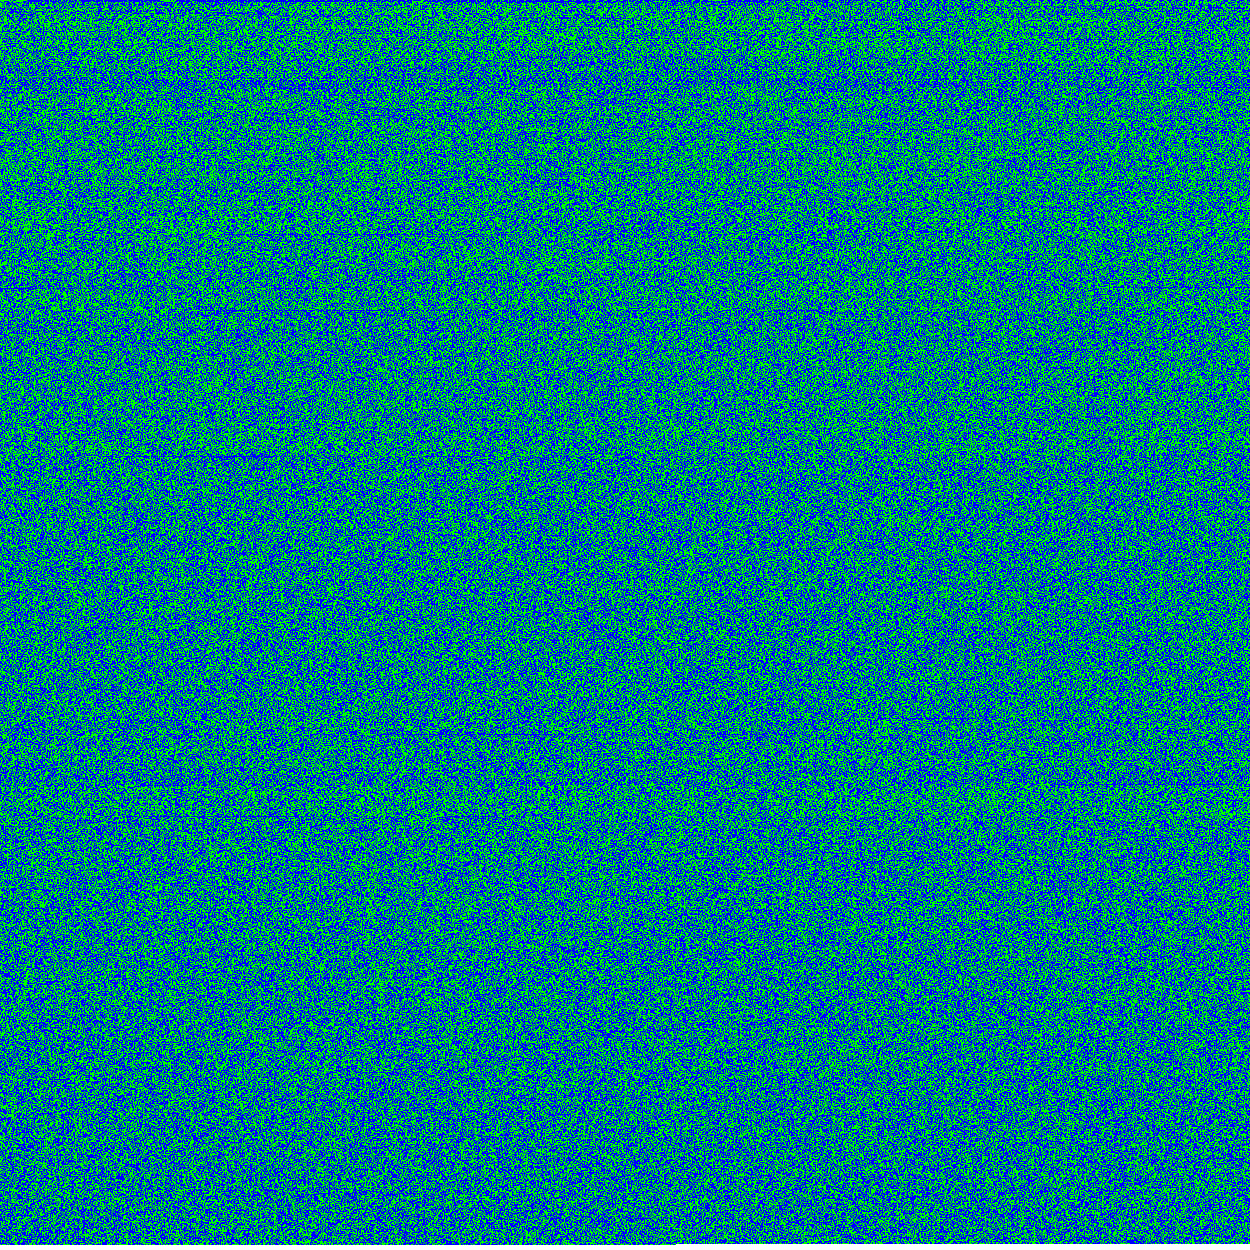
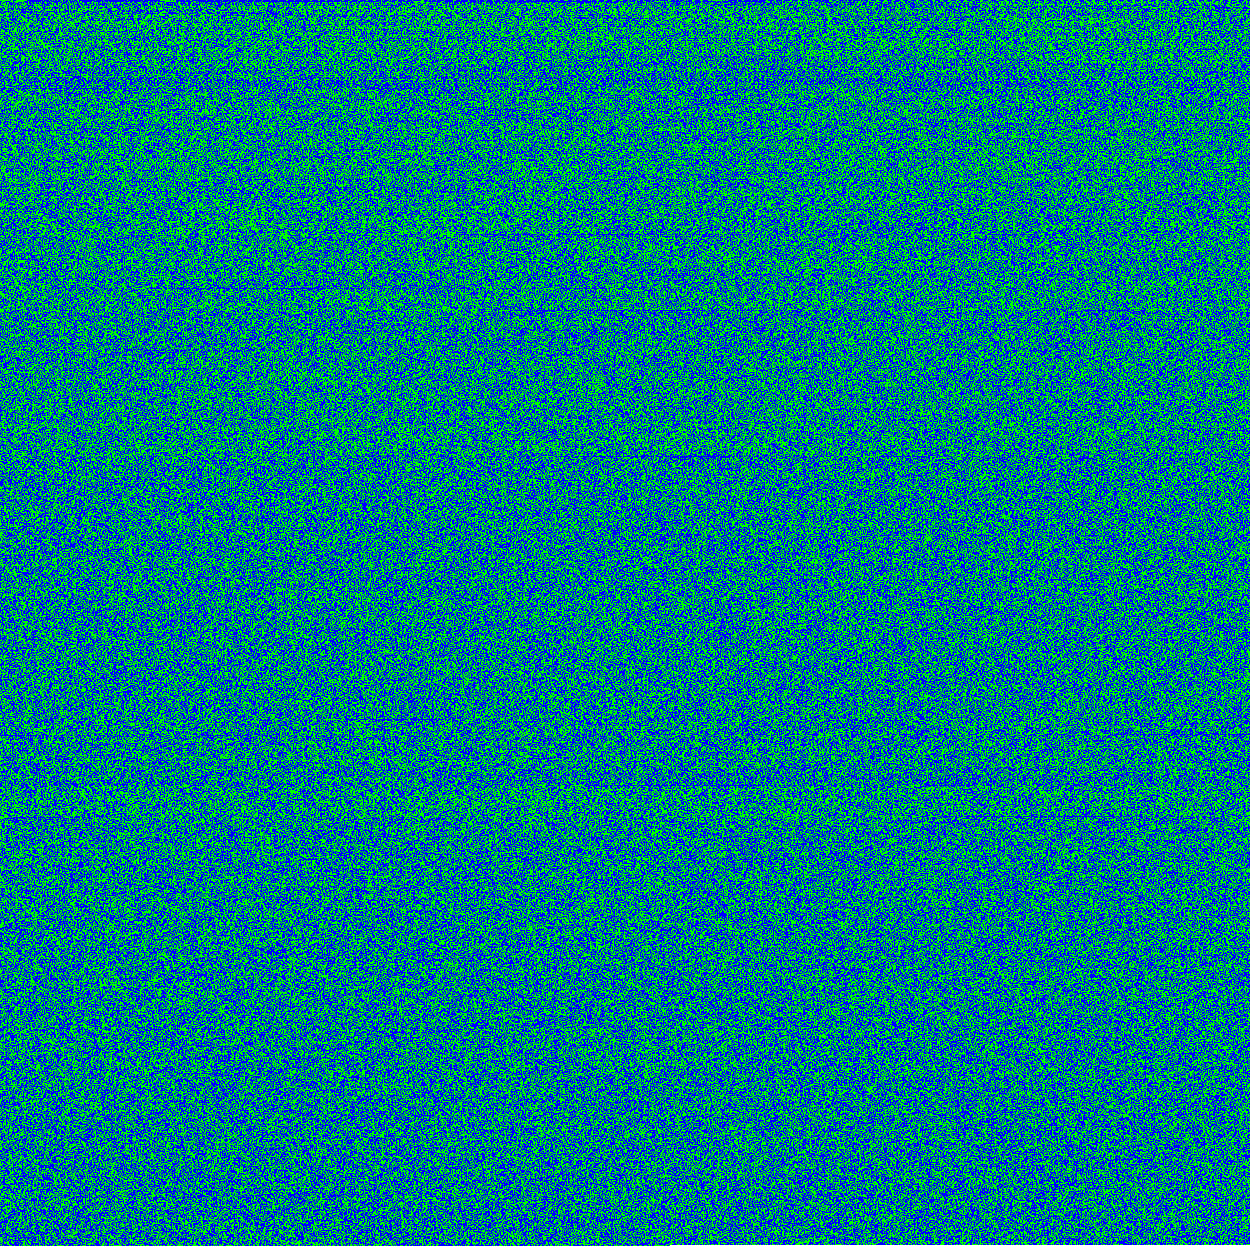
trasformar imagem em arquivo finalizado

diff --git a/encoder.py b/encoder.py
@@ -3,7 +3,6 @@ from PIL import Image
 with open("imagem_1.jpg", "rb") as arqui_bytes:
     convertido_bytes = arqui_bytes.read()
 
-
 imagem = Image.new("RGB", (1250,1250),(255,255,255))
 
 convertido_bit = []
@@ -22,20 +21,16 @@ for y in range(441):
         for x in range(442):
             for z in range(8):
                 if v < 1556920:
-                    if x2 < 1250:
-                        if convertido_bit[w][z] == "1":
-                            imagem.putpixel((x2, y2), (0,255,0))
-                        if convertido_bit[w][z] == "0":
-                            imagem.putpixel((x2, y2), (0,0,255))
-                        x2+=1
-                    else:
+                    if x2 >= 1250:
                         x2 = 0
                         y2+=1
-                    
+                    if convertido_bit[w][z] == "1":
+                        imagem.putpixel((x2, y2), (0,255,0))
+                    if convertido_bit[w][z] == "0":
+                        imagem.putpixel((x2, y2), (0,0,255))
+                    x2+=1     
                 v+=1
             w+=1
-
-
 
 imagem.show()
 imagem.save('final.png', "png")

diff --git a/decoder.py b/decoder.py
@@ -1,0 +1,29 @@
+from PIL import Image
+
+imagem = Image.open("final.png")
+
+bits = []
+o = 0
+
+for y in range(1250):
+    for x in range(1250):
+        if imagem.getpixel((x,y)) == (0,255,0):
+            bits.append("1")
+        elif imagem.getpixel((x,y)) == (0,0,255):
+            bits.append("0")
+        
+byte = [[""]*1 for _ in range(194615)]
+for w in range(len(bits)//8):
+    for z in range(8):
+        byte[w][0] += bits[z+w*8]
+
+decodeit = open('hello_level.jpg', 'wb')
+
+arquivo_bytes = [[]*1]
+for bytes in range(194615):
+    decodeit.write((int(byte[bytes][0],2)).to_bytes(1))
+    
+decodeit.close() 
+
+print(arquivo_bytes)
+    

diff --git a/arquivosbinario.py b/arquivosbinario.py
@@ -3,7 +3,7 @@ import base64
 
 with open("imagem_1.jpg", "rb") as image2string: 
     converted_string = base64.b64encode(image2string.read()) 
-print (converted_string)
+print (type(converted_string))
 
 with open('encode.bin', "wb") as file: 
     file.write(converted_string)

diff --git a/teste.py b/teste.py
@@ -1,0 +1,7 @@
+with open("imagem_1.jpg", "rb") as arqui_bytes:
+    convertido_bytes = arqui_bytes.read()
+
+a = 2
+
+print(convertido_bytes)
+#print((255).to_bytes(a))
